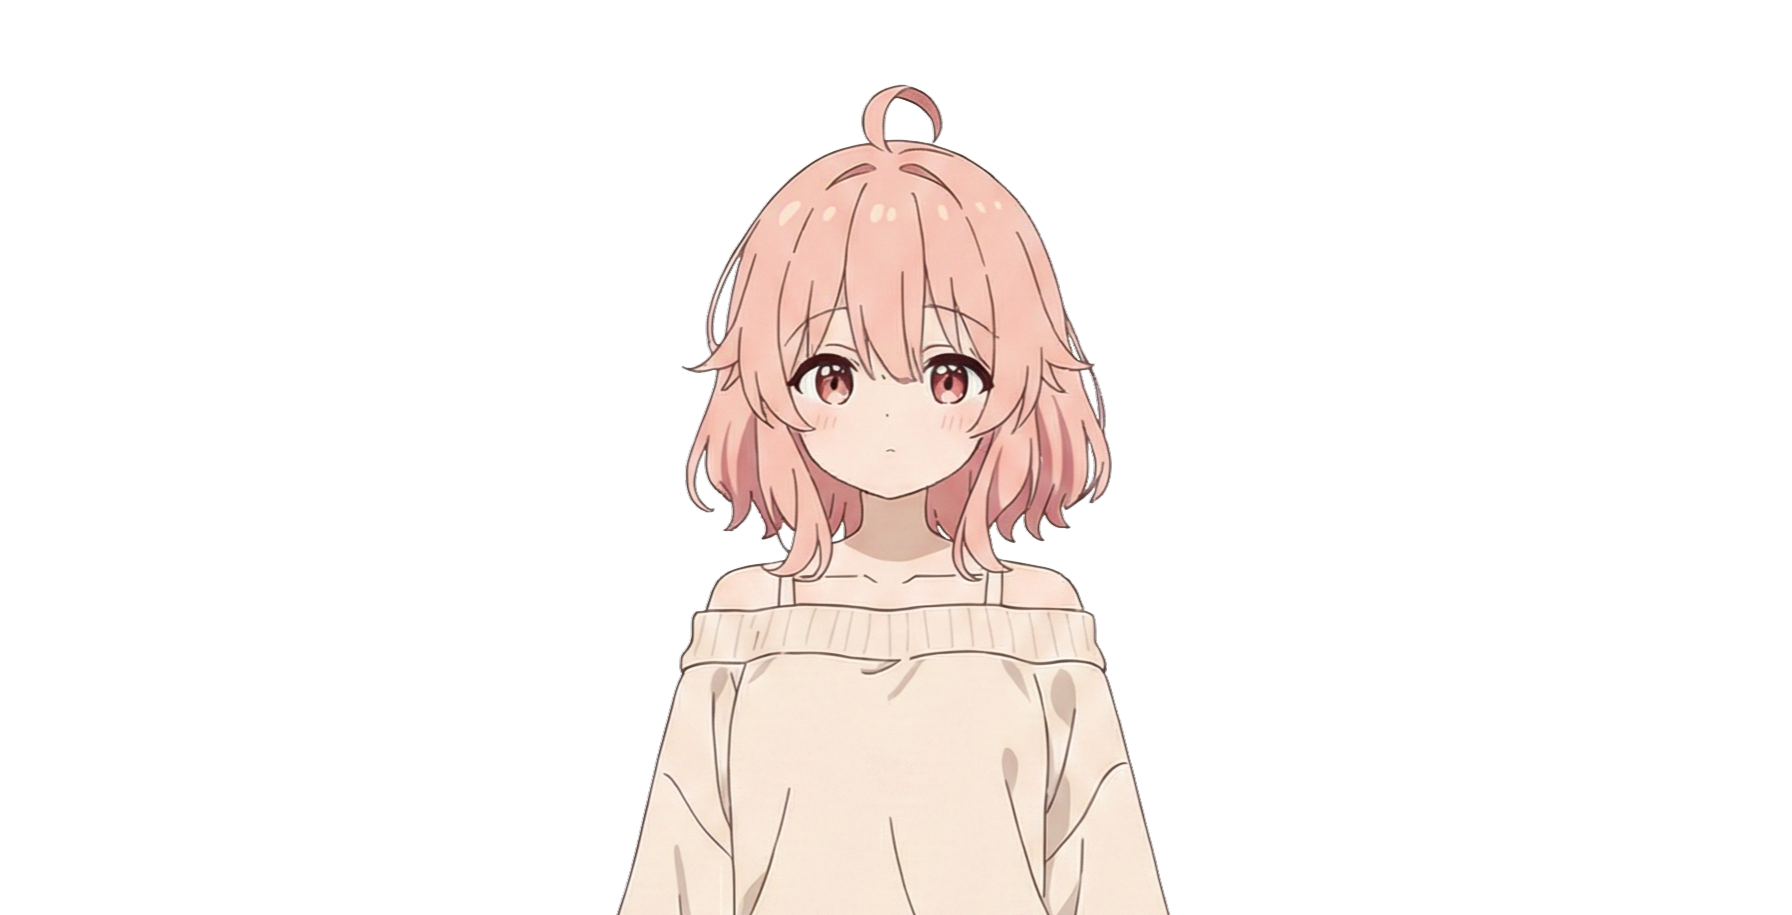
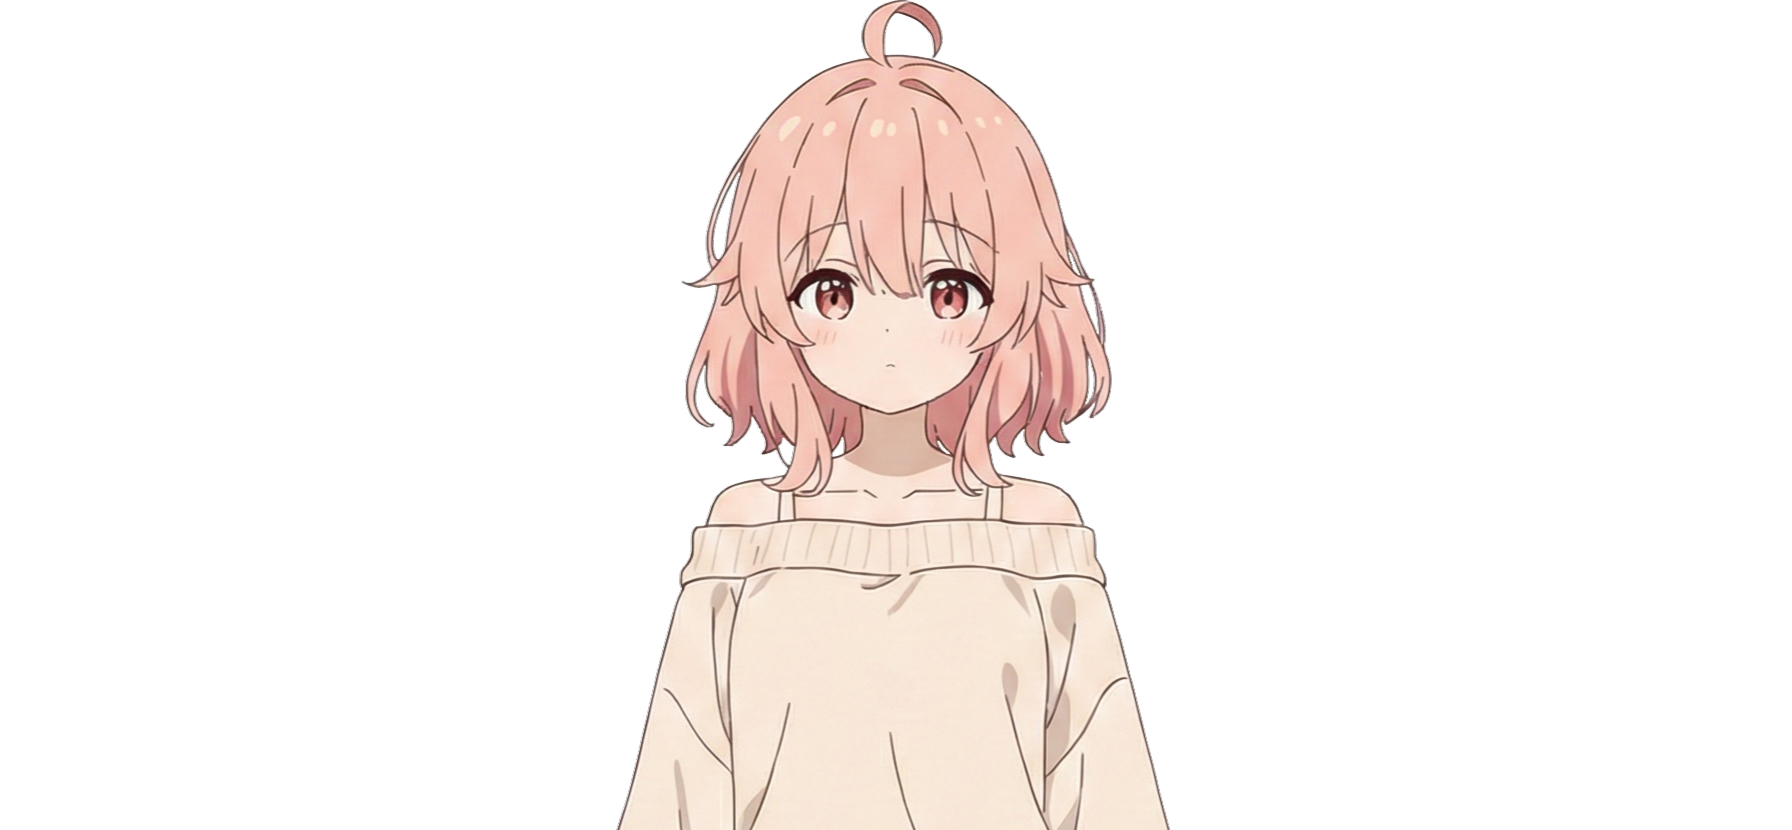
a

Changed region(s): [[0.3438, 0.0, 0.6562, 0.9639]]

diff --git a/assets/css/components.css b/assets/css/components.css
@@ -483,6 +483,7 @@
     width: 120px;
     height: 110px;
     object-fit: cover;
+    object-position: top;
     display: block;
     position: relative;
     z-index: 1;

diff --git a/README.md b/README.md
@@ -32,7 +32,10 @@ https://uiharuyuki.github.io/on-Boom-/
 
 # ロゴ
 - Illustrator
-
+ロゴ:
+CMYKのシアン、マゼンタ、イエロを使用、YouTubeのプラットホームや動画コンテンツを想起させるデザイン。
+「on boom!」:
+直線、曲線を基本的に使用して自作、「Futura」のような幾何学的なfontを意識、ビビットなグラディエーション。
 
 
 ## 主な活用方法
